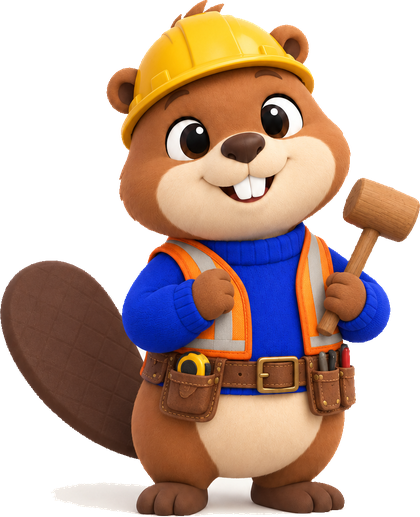
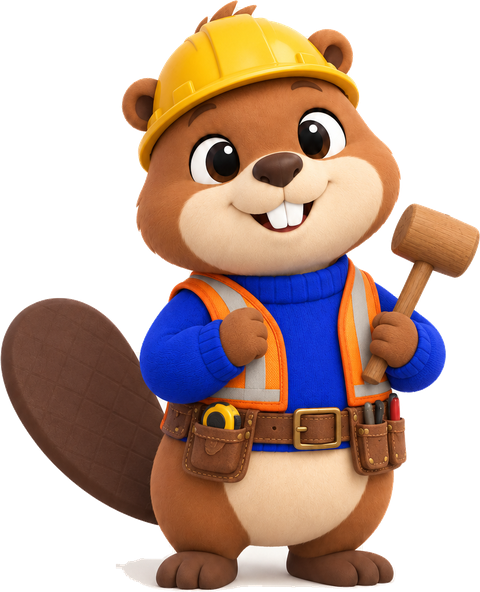
Бобёр: строитель только при переходе на новый уровень, плотина достраивается 9 секунд; аккуратный вырез спрайтов
Claude-Session: https://claude.ai/code/session_01M1XSwMj8R5CDu19Xm8ysCf

diff --git a/frontend/src/screens/beaver.tsx b/frontend/src/screens/beaver.tsx
@@ -8,7 +8,13 @@ import '../beaver.css'
 // Вкладка «Бобёр»: питомец строит плотину из брёвен.
 // Брёвна ребёнок зарабатывает за реальные финансовые действия (их считаем из уже существующих данных:
 // накопления в целях, подтверждённые задания, достигнутые цели, пройденные уроки). Купить брёвна нельзя.
-// Потраченные на стройку брёвна пока хранятся в браузере; на бэкенд это переедет вместе с таблицей питомца.
+// Потраченные на стройку брёвна и показанный уровень пока хранятся в браузере;
+// на бэкенд это переедет вместе с таблицей питомца.
+//
+// Две сцены:
+//  1) «Построить» — бобёр в своей одежде бросает брёвна по одному, плотина вздрагивает;
+//  2) переход на новый уровень — бобёр переодевается в строителя, плотина достраивается
+//     несколько секунд (картинка плавно перетекает в новый уровень), он комментирует работу.
 
 const LOGS_PER_BUILD = 5
 const LOGS_PER_5_BYN = 1
@@ -16,10 +22,14 @@ const LOGS_PER_TASK = 3
 const LOGS_PER_GOAL_DONE = 20
 const LOGS_PER_LESSON = 2
 
-const PRE_WORK_MS = 1100   // бобёр надевает каску, прежде чем начать
+const PRE_WORK_MS = 250    // пауза перед первым броском
 const THROW_GAP_MS = 800   // пауза между бросками
-const SPEECH_AT_WORK = ['Таскаю брёвна!', 'Строю плотину…', 'Ещё одно бревно!', 'Почти готово…', 'Держись, плотина!']
 const FLIGHT_MS = 560      // сколько летит бревно
+const SPEECH_AT_WORK = ['Таскаю брёвна!', 'Ещё одно бревно!', 'Держись, плотина!', 'Почти готово…', 'Хоп!']
+
+const LEVEL_BUILD_MS = 9000 // сколько достраивается плотина при переходе на новый уровень
+const SPEECH_AT_LEVEL = ['Надеваю каску!', 'Строю плотину!', 'Укладываю брёвна…', 'Закрепляю ветками…', 'Почти готово!']
+const BUILDER_FALLBACK = '/beaver/builder.png' // общий строитель, пока нет отдельных для малыша и подростка
 
 // need — сколько брёвен нужно уже построить, чтобы достичь уровня
 export const DAM_LEVELS = [
@@ -29,12 +39,16 @@ export const DAM_LEVELS = [
   { n: 4, need: 80, title: 'Плотина с домиком' },
 ]
 
-const storageKey = (id: number) => `beaver:${id}`
-function loadBuilt(id: number): number {
-  try { return Number(localStorage.getItem(storageKey(id))) || 0 } catch { return 0 }
+const builtKey = (id: number) => `beaver:${id}`
+const shownKey = (id: number) => `beaver:${id}:lv`
+function loadNum(key: string): number | null {
+  try {
+    const v = localStorage.getItem(key)
+    return v === null ? null : Number(v) || 0
+  } catch { return null }
 }
-function saveBuilt(id: number, v: number) {
-  try { localStorage.setItem(storageKey(id), String(v)) } catch { /* без хранилища просто не запоминаем */ }
+function saveNum(key: string, v: number) {
+  try { localStorage.setItem(key, String(v)) } catch { /* без хранилища просто не запоминаем */ }
 }
 
 function levelFor(built: number) {
@@ -62,16 +76,19 @@ export function BeaverScreen({ meId, ageGroup }: { meId: number; ageGroup: strin
   const teen = ageGroup === '14-17'
   const sprite = teen ? '/beaver/teen.png' : '/beaver/kid.png'
   const spriteUp = teen ? '/beaver/teen.png' : '/beaver/kid-wave.png'
-  // «Рабочая форма» строителя (каска, жилет, молоток), одна на все возрасты. Если файла нет, onError возвращает обычный спрайт
-  const spriteBuilder = '/beaver/builder.png'
+  const spriteBuilder = teen ? '/beaver/teen-builder.png' : '/beaver/kid-builder.png'
 
   const goals = useData(() => api.getGoals(meId), [meId], 3000)
   const tasks = useData(() => api.listTasks(), [], 3000)
   const lessons = useData(() => api.getLessons(), [], 3000)
-  const [built, setBuilt] = useState(() => loadBuilt(meId))
+  const [built, setBuilt] = useState(() => loadNum(builtKey(meId)) ?? 0)
+  // Какой уровень плотины сейчас показан. Он отстаёт от «заслуженного», пока идёт достройка.
+  const [shown, setShown] = useState(() => loadNum(shownKey(meId)) ?? levelFor(loadNum(builtKey(meId)) ?? 0).n)
   const [bump, setBump] = useState(0)
   const [levelUp, setLevelUp] = useState<number | null>(null)
-  const [busy, setBusy] = useState(false)
+  const [throwing, setThrowing] = useState(false)
+  const [target, setTarget] = useState<number | null>(null) // уровень, который сейчас достраивается
+  const [cProg, setCProg] = useState(0)                      // 0..1 — ход достройки
   const [flying, setFlying] = useState<number[]>([])
   const [pops, setPops] = useState<number[]>([])
   const [confetti, setConfetti] = useState(false)
@@ -80,8 +97,12 @@ export function BeaverScreen({ meId, ageGroup }: { meId: number; ageGroup: strin
   const damRef = useRef<HTMLDivElement>(null)
   const beaverRef = useRef<HTMLDivElement>(null)
   const timers = useRef<number[]>([])
+  const intervals = useRef<number[]>([])
   const uid = useRef(0)
-  useEffect(() => () => { timers.current.forEach((t) => window.clearTimeout(t)) }, [])
+  useEffect(() => () => {
+    timers.current.forEach((t) => window.clearTimeout(t))
+    intervals.current.forEach((t) => window.clearInterval(t))
+  }, [])
   const later = (fn: () => void, ms: number) => { timers.current.push(window.setTimeout(fn, ms)) }
 
   const confettiPieces = useMemo(
@@ -95,6 +116,53 @@ export function BeaverScreen({ meId, ageGroup }: { meId: number; ageGroup: strin
     [],
   )
 
+  const thud = (strong = false) => {
+    damRef.current?.animate(
+      [
+        { transform: 'translate(0,0) scale(1)' },
+        { transform: `translate(2px,3px) scale(${strong ? 1.02 : 1.012})`, offset: 0.3 },
+        { transform: 'translate(-2px,1px) scale(1.006)', offset: 0.6 },
+        { transform: 'translate(0,0) scale(1)' },
+      ],
+      { duration: 280, easing: 'ease-out' },
+    )
+  }
+
+  // Переход на новый уровень: бобёр-строитель достраивает плотину LEVEL_BUILD_MS
+  const startConstruction = (to: number) => {
+    setTarget(to)
+    setCProg(0)
+    setSpeech(SPEECH_AT_LEVEL[0])
+    const t0 = Date.now()
+    let lastHit = -1
+    const iv = window.setInterval(() => {
+      const p = Math.min(1, (Date.now() - t0) / LEVEL_BUILD_MS)
+      setCProg(p)
+      setSpeech(SPEECH_AT_LEVEL[Math.min(SPEECH_AT_LEVEL.length - 1, Math.floor(p * SPEECH_AT_LEVEL.length))])
+      const hit = Math.floor((Date.now() - t0) / 700)
+      if (hit !== lastHit) { lastHit = hit; thud() }
+      if (p >= 1) {
+        window.clearInterval(iv)
+        setShown(to)
+        saveNum(shownKey(meId), to)
+        setTarget(null)
+        setSpeech('Плотина готова!')
+        later(() => setSpeech(null), 1600)
+        setConfetti(true)
+        later(() => setConfetti(false), 2200)
+        later(() => setLevelUp(to), 1000)
+      }
+    }, 120)
+    intervals.current.push(iv)
+  }
+
+  // Зашли на вкладку, а «заслуженный» уровень выше показанного — значит плотину ещё достраивать
+  useEffect(() => {
+    const earnedLevel = levelFor(built).n
+    if (earnedLevel > shown && target === null && !throwing) startConstruction(earnedLevel)
+    // eslint-disable-next-line react-hooks/exhaustive-deps
+  }, [])
+
   if (!goals.data || !tasks.data || !lessons.data) return <><Header title="Мой бобёр" /><Loading /></>
 
   const g = goals.data.items
@@ -104,17 +172,18 @@ export function BeaverScreen({ meId, ageGroup }: { meId: number; ageGroup: strin
   const earned = fromGoals + fromTasks + fromLessons
   const balance = Math.max(0, earned - built)
 
-  const level = levelFor(built)
-  const next = DAM_LEVELS.find((l) => l.n === level.n + 1)
+  const constructing = target !== null
+  const busy = throwing || constructing
+  const earnedLevel = levelFor(built)
+  const shownLevel = DAM_LEVELS.find((l) => l.n === shown) ?? DAM_LEVELS[0]
+  const next = DAM_LEVELS.find((l) => l.n === earnedLevel.n + 1)
   const spend = Math.min(LOGS_PER_BUILD, balance)
 
   // Бобёр бросает брёвна по одному: прыжок → полёт → шлепок о плотину → +1 к постройке
   const build = () => {
     if (busy || spend <= 0) return
-    setBusy(true)
-    const startLevel = levelFor(built).n
+    setThrowing(true)
     let cur = built
-    setSpeech('Надеваю каску!')
     for (let i = 0; i < spend; i++) {
       later(() => {
         setSpeech(SPEECH_AT_WORK[i % SPEECH_AT_WORK.length])
@@ -133,35 +202,27 @@ export function BeaverScreen({ meId, ageGroup }: { meId: number; ageGroup: strin
           setFlying((f) => f.filter((x) => x !== id))
           cur += 1
           setBuilt(cur)
-          saveBuilt(meId, cur)
+          saveNum(builtKey(meId), cur)
           setBump((b) => b + 1)
           setPops((p) => [...p, id])
           later(() => setPops((p) => p.filter((x) => x !== id)), 900)
-          damRef.current?.animate(
-            [
-              { transform: 'translate(0,0) scale(1)' },
-              { transform: 'translate(2px,3px) scale(1.012)', offset: 0.3 },
-              { transform: 'translate(-2px,1px) scale(1.006)', offset: 0.6 },
-              { transform: 'translate(0,0) scale(1)' },
-            ],
-            { duration: 280, easing: 'ease-out' },
-          )
+          thud()
         }, FLIGHT_MS)
       }, PRE_WORK_MS + i * THROW_GAP_MS)
     }
     later(() => {
-      setBusy(false)
-      setSpeech('Плотина готова!')
-      later(() => setSpeech(null), 1500)
-      if (levelFor(cur).n > startLevel) {
-        setConfetti(true)
-        later(() => setConfetti(false), 2200)
-        later(() => setLevelUp(levelFor(cur).n), 900)
+      setThrowing(false)
+      const reached = levelFor(cur).n
+      if (reached > shown) startConstruction(reached)
+      else {
+        setSpeech('Готово!')
+        later(() => setSpeech(null), 1200)
       }
     }, PRE_WORK_MS + (spend - 1) * THROW_GAP_MS + FLIGHT_MS + 250)
   }
 
   const upLevel = DAM_LEVELS.find((l) => l.n === levelUp)
+  const pct = Math.round(cProg * 100)
 
   return (
     <>
@@ -177,20 +238,28 @@ export function BeaverScreen({ meId, ageGroup }: { meId: number; ageGroup: strin
       <div className="space-y-5 px-4 pb-6 pt-4">
         <div className="relative aspect-[4/3.3] overflow-hidden rounded-[28px] shadow-[0_14px_30px_-18px_rgba(20,20,22,0.45)]">
           <div ref={damRef} className="absolute inset-0">
-            {DAM_LEVELS.map((l) => (
-              <img
-                key={l.n} src={`/beaver/dam${l.n}.jpg`} alt={l.title} draggable={false}
-                className="absolute inset-0 h-full w-full object-cover transition-opacity duration-1000"
-                style={{ opacity: l.n === level.n ? 1 : 0 }}
-              />
-            ))}
+            {DAM_LEVELS.map((l) => {
+              // показанный уровень виден полностью, достраиваемый проступает поверх по мере работы
+              const opacity = l.n === shown ? 1 : l.n === target ? cProg : 0
+              return (
+                <img
+                  key={l.n} src={`/beaver/dam${l.n}.jpg`} alt={l.title} draggable={false}
+                  className={`absolute inset-0 h-full w-full object-cover ${constructing ? 'transition-opacity duration-150 ease-linear' : 'transition-opacity duration-1000'}`}
+                  style={{ opacity }}
+                />
+              )
+            })}
           </div>
 
           <div ref={beaverRef} className="absolute bottom-1 left-2 h-[68%]">
             <img
-              src={busy ? spriteBuilder : sprite} alt="Бобёр" draggable={false}
-              onError={(e) => { if (!e.currentTarget.src.endsWith(sprite)) e.currentTarget.src = sprite }}
-              className={`${busy ? 'anim-work' : 'anim-bob'} h-full select-none drop-shadow-[0_6px_6px_rgba(0,0,0,0.18)]`}
+              src={constructing ? spriteBuilder : sprite} alt="Бобёр" draggable={false}
+              onError={(e) => {
+                const el = e.currentTarget
+                if (el.src.endsWith(spriteBuilder)) el.src = BUILDER_FALLBACK
+                else if (el.src.endsWith(BUILDER_FALLBACK)) el.src = sprite
+              }}
+              className={`${constructing ? 'anim-work' : 'anim-bob'} h-full select-none drop-shadow-[0_6px_6px_rgba(0,0,0,0.18)]`}
             />
           </div>
 
@@ -225,8 +294,14 @@ export function BeaverScreen({ meId, ageGroup }: { meId: number; ageGroup: strin
           ))}
 
           <div className="absolute left-3 top-3 rounded-full bg-white/90 px-3 py-1.5 text-xs font-bold text-[#2334C8]">
-            Уровень {level.n} · {level.title}
+            {constructing ? `🚧 Плотина строится… ${pct}%` : `Уровень ${shownLevel.n} · ${shownLevel.title}`}
           </div>
+
+          {constructing && (
+            <div className="absolute inset-x-0 bottom-0 z-10 h-1.5 bg-black/20">
+              <div className="h-full bg-gradient-to-r from-[#FF5A1F] to-[#E5271E]" style={{ width: `${pct}%` }} />
+            </div>
+          )}
         </div>
 
         <Card>
@@ -241,11 +316,13 @@ export function BeaverScreen({ meId, ageGroup }: { meId: number; ageGroup: strin
         </Card>
 
         <Btn onClick={build} disabled={busy || balance <= 0}>
-          {busy
-            ? 'Бобёр строит…'
-            : balance > 0
-              ? `Построить: положить ${spend} ${logWord(spend)}`
-              : 'Пока нет брёвен — заработай их ниже'}
+          {constructing
+            ? 'Плотина строится…'
+            : throwing
+              ? 'Бобёр кидает брёвна…'
+              : balance > 0
+                ? `Построить: положить ${spend} ${logWord(spend)}`
+                : 'Пока нет брёвен — заработай их ниже'}
         </Btn>
 
         <Section title="Как получить брёвна">
